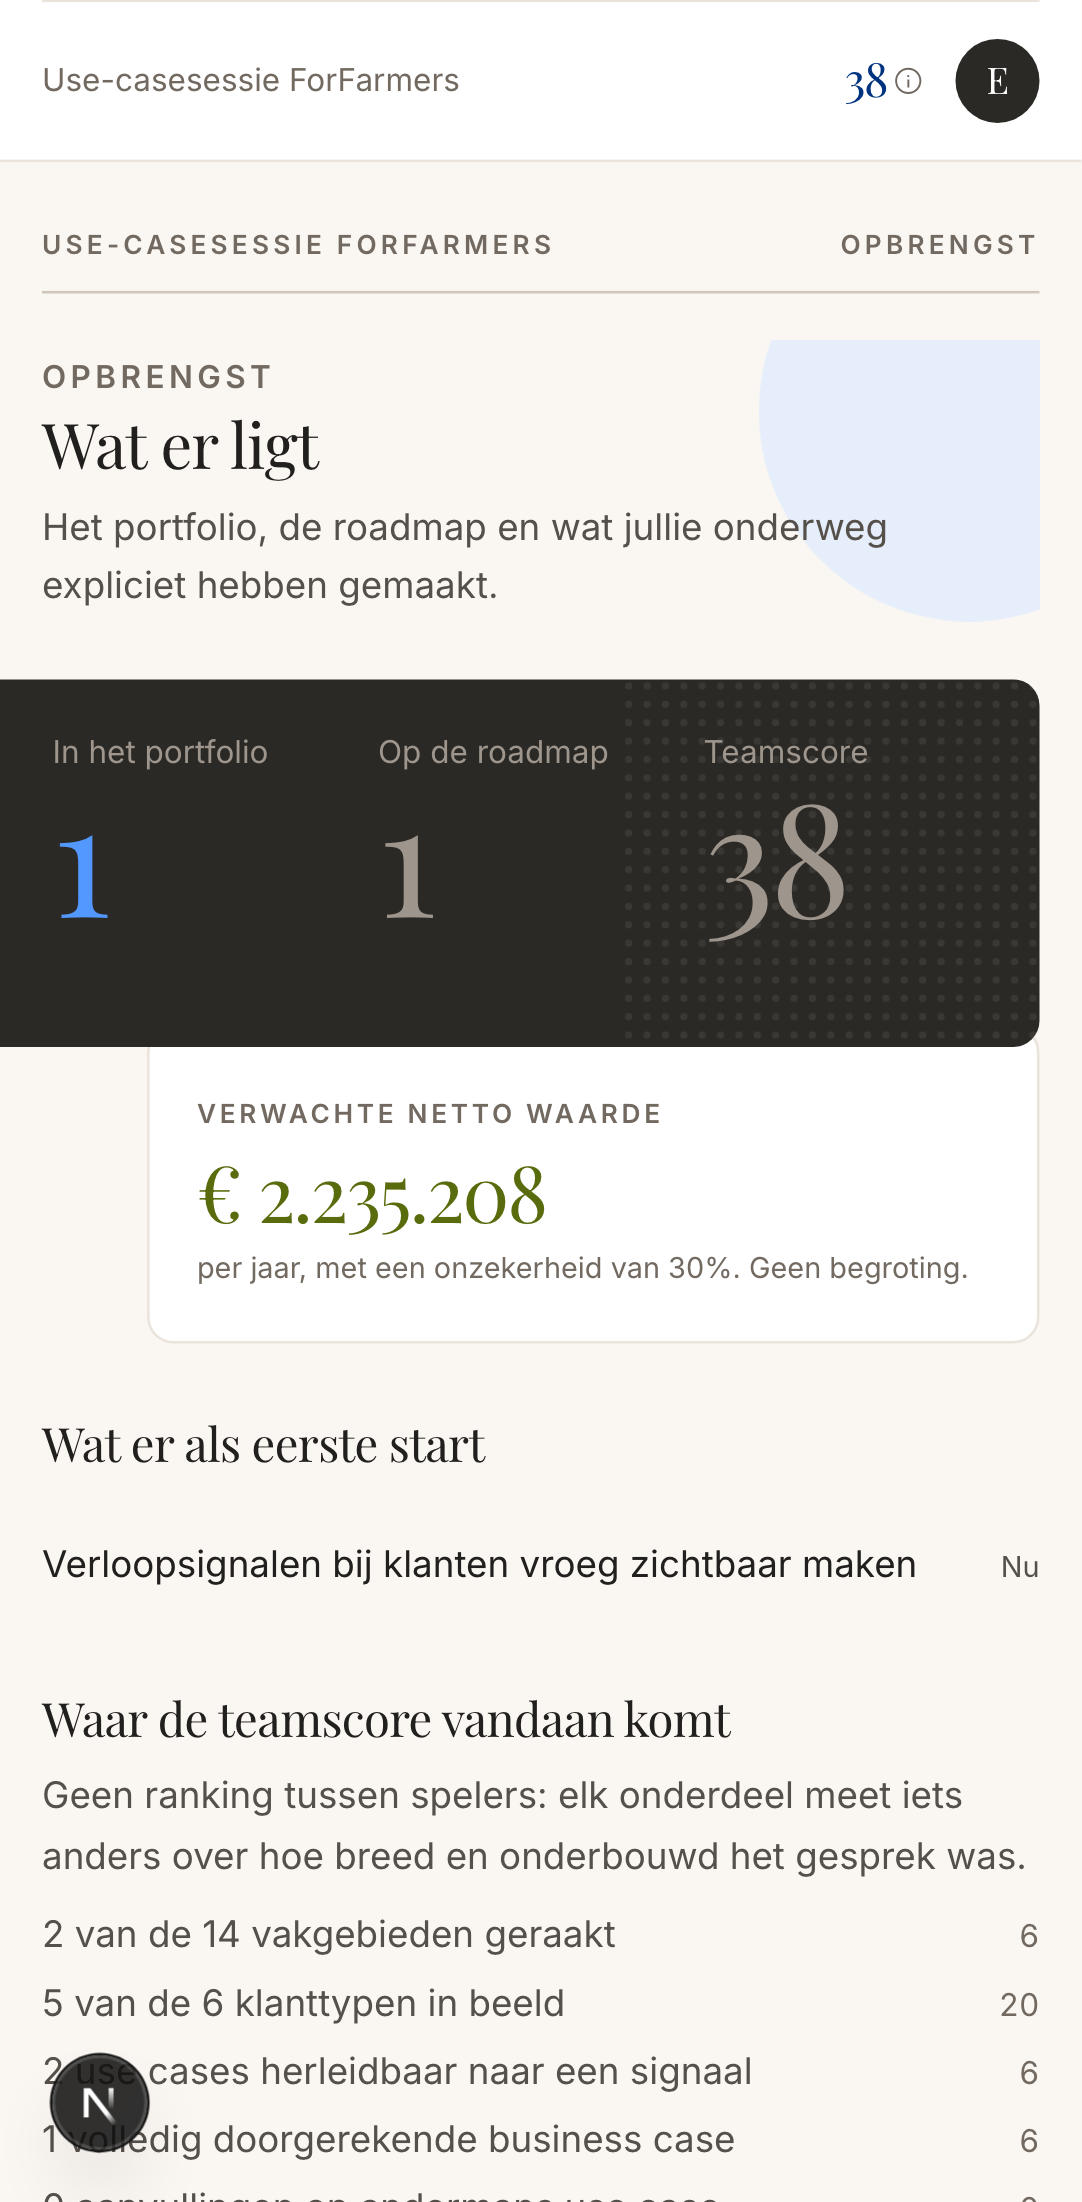
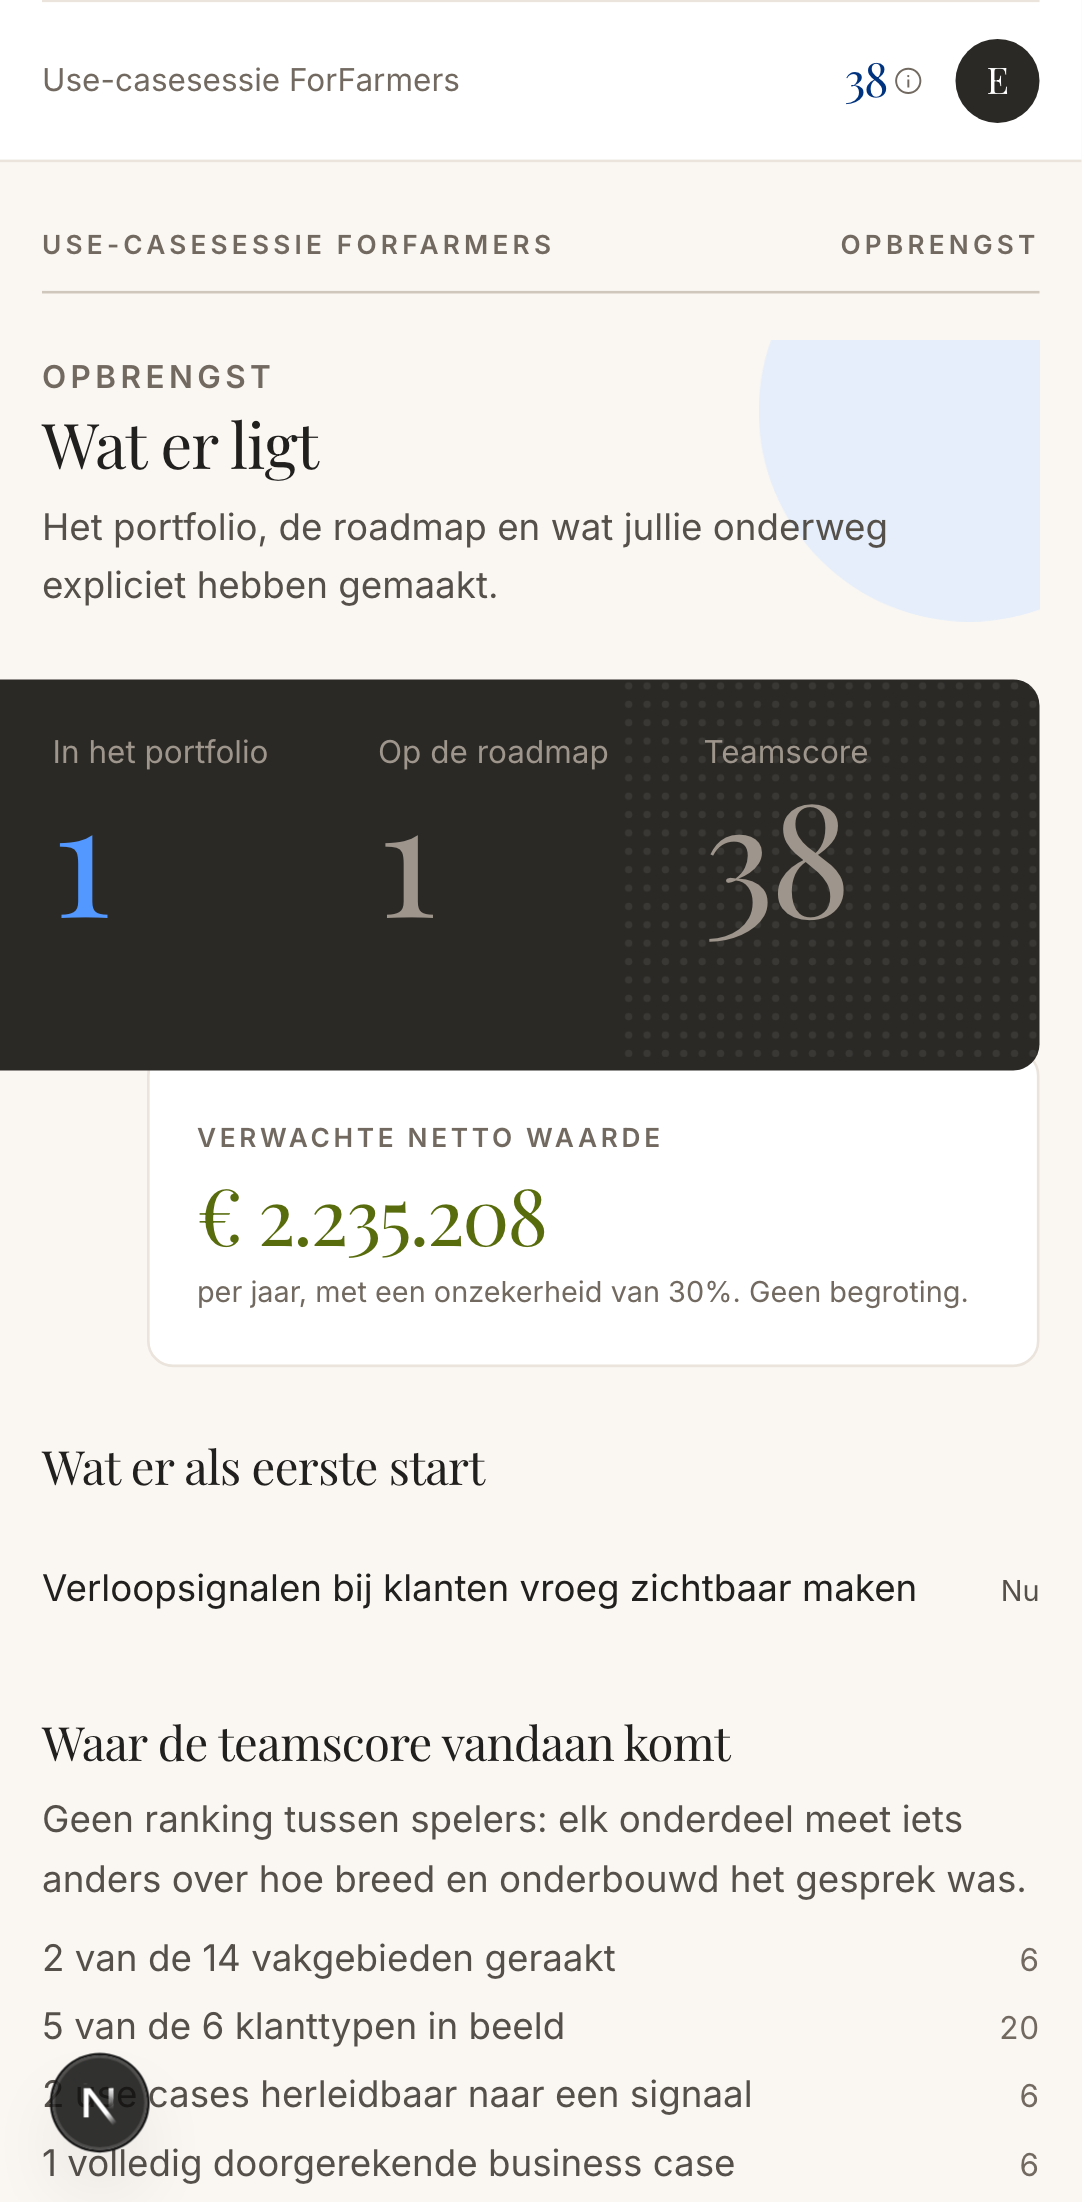
feat(opmaak): schermen schalen mee, en twee opmaakfouten eruit
Het beheerscherm was één kolom, terwijl dat juist het scherm is dat de hele
sessie op een laptop openstaat. De facilitator moest scrollen tussen de
fasebesturing en het beeld van waar het hapert. Vanaf lg staan besturing links
en situatiebeeld rechts, en blijven ze allebei in beeld. Op een telefoon
verandert er niets.

De waardebepaling bleef één kolom terwijl verkennen en identificatie al
meeschaalden; die trekt nu gelijk. Het spelerscherm krijgt op een laptop wat
meer maat, zodat twee kolommen kaarten een leesbare breedte houden.

Twee fouten in de opmaak zelf:

- `.cijfer` heeft `line-height: 0.85` voor strakke cijfers, waardoor de regelbox
  korter is dan de glyphs. Een toelichting eronder liep dwars door het getal
  heen — op de beamer sneed de zin over de teamscore. De onderruimte compenseert
  dat nu in `em`, dus voor elk formaat.
- De decoratieve cirkel op de beamer lag over de lijst "Op tafel" en over de
  bedragen. Toegestaan volgens de contrastregels, maar op een scherm dat van
  vier meter wordt gelezen is decoratie achter cijfers een last. Kleiner en
  hoger gezet.

De matrix op de beamer had een vaste hoogte van 420 pixels, ongeacht het scherm;
op een projector bleef de onderste helft leeg. Hij schaalt nu mee met de
vensterhoogte.

Verder: "1 signalen" op het beheerscherm. Dat was de vierde keer dat hetzelfde
misging, dus nu één helper `telwoord()` met tests in plaats van weer een lokale
ternary.

diff --git a/src/app/sessie/[id]/beheer/page.tsx b/src/app/sessie/[id]/beheer/page.tsx
@@ -5,6 +5,7 @@ import { useParams } from "next/navigation";
 import { useState } from "react";
 import { FASES, FASE_LABELS, type Fase } from "@/lib/supabase/types";
 import { klantlensVoorOrganisatie, rolNaam, speelmodus } from "@/lib/content";
+import { telwoord } from "@/lib/tekst/meervoud";
 import { opslag } from "@/lib/sessie/api";
 import { useAanwezigheid, useSessie } from "@/lib/sessie/gebruik";
 import {
@@ -99,7 +100,7 @@ export default function BeheerPagina() {
       accentSecundair={organisatie(state.sessie.organisatie_id).thema.accent_secundair}
       className="flex-1"
     >
-    <main className="mx-auto w-full max-w-4xl px-4 py-6">
+    <main className="mx-auto w-full max-w-4xl px-4 py-6 lg:max-w-6xl">
       <Kop
         boven="Facilitator"
         titel={state.sessie.titel}
@@ -132,7 +133,16 @@ export default function BeheerPagina() {
         </div>
       ) : null}
 
-      <section className="mt-6">
+
+      {/*
+        Op een laptop is dit het scherm dat de hele sessie openstaat, en daar is één kolom
+        zonde: de facilitator scrolt dan tussen de fasebesturing en het beeld van waar het
+        hapert. Vanaf lg staan besturing en situatiebeeld naast elkaar, zodat allebei in
+        beeld blijven. Op een telefoon blijft het één stapel, in dezelfde volgorde.
+      */}
+      <div className="mt-6 grid gap-6 lg:grid-cols-[minmax(0,5fr)_minmax(0,6fr)] lg:items-start">
+        <div className="space-y-6">
+      <section>
         <Kaart className="p-4">
           <h2 className="display text-lg text-inkt">Meedoen</h2>
           <p
@@ -160,7 +170,7 @@ export default function BeheerPagina() {
       </section>
 
       {ikBenFacilitator ? (
-        <section className="mt-6">
+        <section>
           <Kaart className="p-4">
             <h2 className="display text-lg text-inkt">Beheertoegang</h2>
             <p className="mt-1.5 text-xs leading-relaxed text-inkt-zacht">
@@ -213,7 +223,7 @@ export default function BeheerPagina() {
         </section>
       ) : null}
 
-      <section className="mt-6">
+      <section>
         <h2 className="display text-lg text-inkt">Fase</h2>
         <div className="mt-2 grid gap-1.5 sm:grid-cols-2">
           {FASES.map((fase, index) => {
@@ -246,8 +256,11 @@ export default function BeheerPagina() {
           </div>
         ) : null}
       </section>
+        </div>
 
-      <section className="mt-6">
+        <div className="space-y-6">
+
+      <section>
         <h2 className="display text-lg text-inkt">Wie is er</h2>
         <ul className="mt-2 space-y-1.5">
           {state.deelnemers.map((deelnemer) => {
@@ -278,8 +291,8 @@ export default function BeheerPagina() {
                  * krappe kolom duwde de rolnaam toen woord voor woord uit elkaar.
                  */}
                 <div className="flex flex-wrap items-center gap-1.5 sm:shrink-0 sm:justify-end">
-                  <Etiket>{selecties} signalen</Etiket>
-                  <Etiket>{ingebracht} use cases</Etiket>
+                  <Etiket>{telwoord(selecties, "signaal", "signalen")}</Etiket>
+                  <Etiket>{telwoord(ingebracht, "use case", "use cases")}</Etiket>
                   {afgeweken ? (
                     <Etiket toon={voorop ? "aandacht" : "neutraal"}>
                       {voorop ? (
@@ -298,7 +311,7 @@ export default function BeheerPagina() {
         </ul>
       </section>
 
-      <section className="mt-6">
+      <section>
         <h2 className="display text-lg text-inkt">Waar het hapert</h2>
         <div className="mt-2 space-y-2">
           {gedekt.domeinenOngedekt.length > 6 ? (
@@ -357,6 +370,8 @@ export default function BeheerPagina() {
           ) : null}
         </div>
       </section>
+        </div>
+      </div>
     </main>
     </Thema>
   );

diff --git a/src/components/basis.tsx b/src/components/basis.tsx
@@ -291,14 +291,19 @@ export function Cijfer({
       {label ? (
         <p className={`text-xs leading-snug ${labelkleur}`}>{label}</p>
       ) : null}
-      <p className={`cijfer mt-1 ${formaten[formaat]} ${kleuren[toon]}`}>
+      {/*
+        De onderruimte compenseert precies de krappe regelhoogte van `.cijfer` (0.85). Zonder haar
+        is de regelbox korter dan de cijfers zelf en kruipt de toelichting eronder — op de beamer
+        liep de zin dwars door de teamscore heen. In `em` zodat het meeschaalt met elk formaat.
+      */}
+      <p className={`cijfer mt-1 pb-[0.15em] ${formaten[formaat]} ${kleuren[toon]}`}>
         {weerTeGeven}
         {achtervoegsel ? (
           <span className="ml-1 align-baseline text-base font-normal">{achtervoegsel}</span>
         ) : null}
       </p>
       {toelichting ? (
-        <p className={`mt-1 max-w-[22rem] text-[11px] leading-snug ${labelkleur}`}>{toelichting}</p>
+        <p className={`mt-2 max-w-[22rem] text-[11px] leading-snug ${labelkleur}`}>{toelichting}</p>
       ) : null}
     </div>
   );

diff --git a/src/components/matrix.tsx b/src/components/matrix.tsx
@@ -13,12 +13,18 @@ import type { KwadrantId } from "@/lib/waarde/berekening";
 export function Matrix({
   beelden,
   hoogte = 320,
+  hoogteCss,
   geselecteerd,
   onKies,
   donker = false,
 }: {
   beelden: UsecaseBeeld[];
   hoogte?: number;
+  /**
+   * Overschrijft `hoogte` met een CSS-waarde, zodat de matrix kan meeschalen met het scherm.
+   * Bedoeld voor de beamer: daar is een vaste pixelhoogte zonde van een groot scherm.
+   */
+  hoogteCss?: string;
   geselecteerd?: string | null;
   onKies?: (usecaseId: string) => void;
   /** Donkere variant voor de beamer, waar de zaal vaak verduisterd is. */
@@ -51,7 +57,7 @@ export function Matrix({
       ) : null}
       <div
         className={`relative w-full rounded-kaart border ${vlak}`}
-        style={{ height: hoogte }}
+        style={{ height: hoogteCss ?? hoogte }}
       >
         {/* Kwadrantscheiding op het midden van de schaal. */}
         <div className={`absolute inset-x-0 top-1/2 h-px ${lijn}`} />

diff --git a/src/lib/tekst/__tests__/meervoud.test.ts b/src/lib/tekst/__tests__/meervoud.test.ts
@@ -1,0 +1,25 @@
+import { describe, expect, it } from "vitest";
+import { meervoud, telwoord } from "../meervoud";
+
+/**
+ * Klein, maar het ging op vier plekken mis op precies dezelfde manier: "1 signalen",
+ * "1 maanden", "1 use cases". Deze tests houden die ene plek eerlijk.
+ */
+describe("telwoord", () => {
+  it("gebruikt enkelvoud bij precies één", () => {
+    expect(telwoord(1, "signaal", "signalen")).toBe("1 signaal");
+    expect(telwoord(1, "use case", "use cases")).toBe("1 use case");
+  });
+
+  it("gebruikt meervoud bij nul en bij meer dan één", () => {
+    expect(telwoord(0, "signaal", "signalen")).toBe("0 signalen");
+    expect(telwoord(3, "signaal", "signalen")).toBe("3 signalen");
+  });
+});
+
+describe("meervoud", () => {
+  it("geeft alleen het zelfstandig naamwoord terug", () => {
+    expect(meervoud(1, "deelnemer", "deelnemers")).toBe("deelnemer");
+    expect(meervoud(2, "deelnemer", "deelnemers")).toBe("deelnemers");
+  });
+});

diff --git a/src/lib/tekst/meervoud.ts b/src/lib/tekst/meervoud.ts
@@ -1,0 +1,19 @@
+/**
+ * Nederlands enkelvoud en meervoud bij een telwoord.
+ *
+ * Bestaat omdat het op vier plekken misging op precies dezelfde manier: "1 signalen",
+ * "1 maanden", "2 use cases" naast "1 use cases". Het is geen taalkundige fijnslijperij — een
+ * instrument dat aan een bestuurstafel ligt en "1 signalen" toont, oogt onaf, en dat straalt af
+ * op de cijfers ernaast.
+ *
+ * Bewust geen automatische meervoudsvorming: het Nederlands is daar te grillig voor
+ * ("signaal/signalen", "case/cases", "maand/maanden"). Beide vormen worden benoemd.
+ */
+export function telwoord(aantal: number, enkelvoud: string, meervoud: string): string {
+  return `${aantal} ${aantal === 1 ? enkelvoud : meervoud}`;
+}
+
+/** Alleen het zelfstandig naamwoord, zonder het getal ervoor. */
+export function meervoud(aantal: number, enkelvoud: string, meervoudsvorm: string): string {
+  return aantal === 1 ? enkelvoud : meervoudsvorm;
+}

diff --git a/src/app/sessie/[id]/scherm/page.tsx b/src/app/sessie/[id]/scherm/page.tsx
@@ -65,7 +65,7 @@ export default function SchermPagina() {
        * waar je van vier meter naar kijkt. Onder de kop valt de tint alleen achter inkt en
        * inkt-zacht, en die halen daar 13,5 en 6,7.
        */}
-      <Cirkel hoek="rechtsboven" formaat={0.32} toon="zacht" vanBoven={140} />
+      <Cirkel hoek="rechtsboven" formaat={0.19} toon="zacht" vanBoven={60} />
 
       <header className="relative flex items-baseline justify-between gap-6">
         <div>
@@ -87,7 +87,7 @@ export default function SchermPagina() {
         <section>
           <h2 className="display text-2xl text-inkt">Waarde tegen haalbaarheid</h2>
           <div className="mt-3">
-            <Matrix beelden={beelden} hoogte={420} donker />
+            <Matrix beelden={beelden} hoogteCss="min(56vh, 620px)" donker />
           </div>
         </section>
 

diff --git a/src/app/sessie/[id]/rapport/page.tsx b/src/app/sessie/[id]/rapport/page.tsx
@@ -22,6 +22,7 @@ import {
   onvolledigeBusinessCases,
   portfolio,
 } from "@/lib/sessie/afgeleid";
+import { telwoord } from "@/lib/tekst/meervoud";
 import {
   formatteerBandbreedte,
   formatteerEuro,
@@ -301,7 +302,7 @@ export default function RapportPagina() {
                 {allocatie && (allocatie.geld_eur > 0 || allocatie.capaciteit_mensmaanden > 0) ? (
                   <p className="mt-2 text-xs tabular-nums text-inkt-zacht">
                     Toegekend: {formatteerEuro(allocatie.geld_eur)} en{" "}
-                    {allocatie.capaciteit_mensmaanden} mensmaanden.
+                    {telwoord(allocatie.capaciteit_mensmaanden, "mensmaand", "mensmaanden")}.
                   </p>
                 ) : null}
 

diff --git a/src/components/fases/waardebepaling.tsx b/src/components/fases/waardebepaling.tsx
@@ -79,7 +79,7 @@ export function Waardebepaling({
       {beelden.length === 0 ? (
         <Leeg>Er liggen nog geen use cases op tafel.</Leeg>
       ) : (
-        <ul className="space-y-3">
+        <ul className="space-y-3 lg:grid lg:grid-cols-2 lg:items-start lg:gap-3 lg:space-y-0">
           {beelden.map((beeld) => (
             <li key={beeld.usecase.id}>
               <Waarderen state={state} identiteit={identiteit} doe={doe} beeld={beeld} />

diff --git a/src/app/sessie/[id]/page.tsx b/src/app/sessie/[id]/page.tsx
@@ -68,7 +68,7 @@ export default function SpelerPagina() {
       className="flex flex-1 flex-col"
     >
       <Sessiebalk state={state} identiteit={identiteit} sessieId={sessieId} doe={doe} />
-      <main className="mx-auto w-full max-w-4xl flex-1 px-4 py-6">
+      <main className="mx-auto w-full max-w-4xl flex-1 px-4 py-6 lg:max-w-5xl">
         {fout ? (
           <div className="mb-4">
             <Melding toon="risico">{fout}</Melding>
